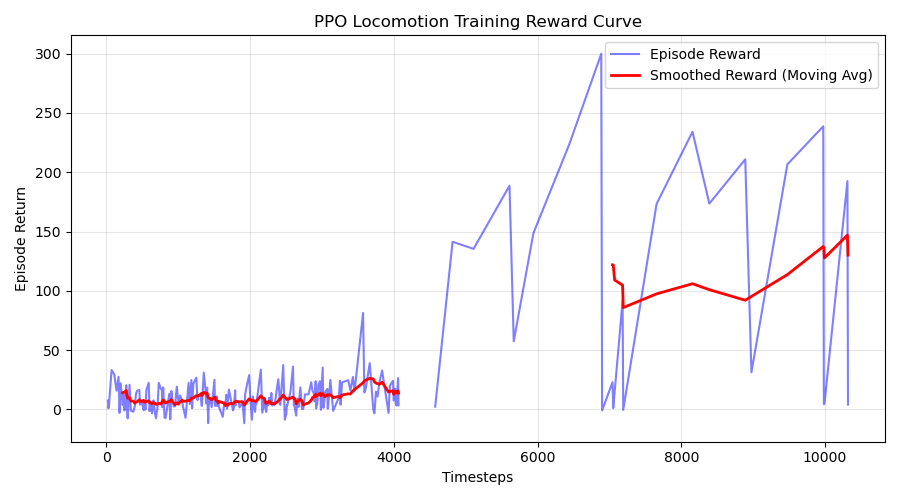
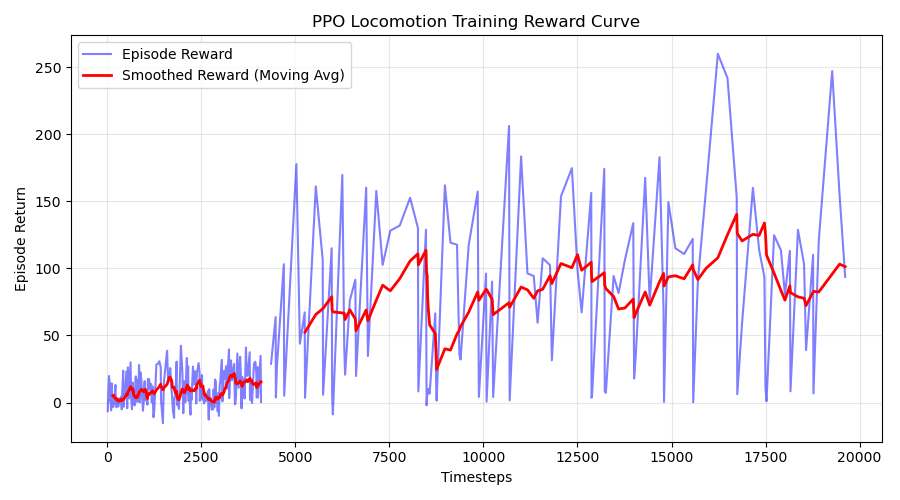
Stage 11: NN controller & population

diff --git a/evolution/nn_controller.py b/evolution/nn_controller.py
@@ -1,0 +1,78 @@
+"""Feedforward Neural Network controller for evolutionary creature locomotion."""
+from __future__ import annotations
+import numpy as np
+
+
+class NNController:
+    """Multi-Layer Perceptron (MLP) policy for creature articulation control.
+
+    Architecture:
+        Input Layer: obs_dim neurons
+        Hidden Layer: hidden_dim neurons (ReLU activation)
+        Output Layer: num_actions neurons (Tanh activation -> [-1.0, 1.0])
+    """
+
+    def __init__(self, obs_dim: int, num_actions: int, hidden_dim: int = 16) -> None:
+        """Initialize controller layer shapes and random weights/biases."""
+        self.obs_dim = obs_dim
+        self.num_actions = num_actions
+        self.hidden_dim = hidden_dim
+
+        # Calculate weight matrix sizes
+        self.w1_size = obs_dim * hidden_dim
+        self.b1_size = hidden_dim
+        self.w2_size = hidden_dim * num_actions
+        self.b2_size = num_actions
+
+        self.total_weights = self.w1_size + self.b1_size + self.w2_size + self.b2_size
+
+        # Initialize with Xavier/Glorot random weights
+        limit1 = np.sqrt(6.0 / (obs_dim + hidden_dim))
+        self.W1 = np.random.uniform(-limit1, limit1, (obs_dim, hidden_dim)).astype(np.float32)
+        self.b1 = np.zeros((hidden_dim,), dtype=np.float32)
+
+        limit2 = np.sqrt(6.0 / (hidden_dim + num_actions))
+        self.W2 = np.random.uniform(-limit2, limit2, (hidden_dim, num_actions)).astype(np.float32)
+        self.b2 = np.zeros((num_actions,), dtype=np.float32)
+
+    def act(self, observation: np.ndarray) -> np.ndarray:
+        """Compute feedforward pass and return continuous action vector in range [-1.0, 1.0]."""
+        obs = np.asarray(observation, dtype=np.float32)
+        if obs.ndim == 1:
+            obs = obs.reshape(1, -1)
+
+        # Hidden layer: ReLU(obs @ W1 + b1)
+        hidden = np.maximum(0.0, obs @ self.W1 + self.b1)
+
+        # Output layer: Tanh(hidden @ W2 + b2)
+        output = np.tanh(hidden @ self.W2 + self.b2)
+        return output.squeeze(axis=0)
+
+    def get_genome(self) -> np.ndarray:
+        """Flatten all weight and bias matrices into a single 1D numpy genome array."""
+        return np.concatenate([
+            self.W1.ravel(),
+            self.b1.ravel(),
+            self.W2.ravel(),
+            self.b2.ravel(),
+        ]).astype(np.float32)
+
+    def set_genome(self, genome: np.ndarray) -> None:
+        """Unflatten 1D genome array into weight and bias matrices."""
+        g = np.asarray(genome, dtype=np.float32)
+        if g.size != self.total_weights:
+            raise ValueError(
+                f"Genome length mismatch: expected {self.total_weights}, got {g.size}"
+            )
+
+        idx = 0
+        self.W1 = g[idx : idx + self.w1_size].reshape(self.obs_dim, self.hidden_dim)
+        idx += self.w1_size
+
+        self.b1 = g[idx : idx + self.b1_size].reshape(self.hidden_dim)
+        idx += self.b1_size
+
+        self.W2 = g[idx : idx + self.w2_size].reshape(self.hidden_dim, self.num_actions)
+        idx += self.w2_size
+
+        self.b2 = g[idx : idx + self.b2_size].reshape(self.num_actions)

diff --git a/evolution/population.py b/evolution/population.py
@@ -1,0 +1,61 @@
+"""Population structure and individual fitness evaluation for Evolutionary Algorithm."""
+from __future__ import annotations
+import numpy as np
+from creatures.morphology import CreatureSpec
+from rl.env import CreatureEnv
+from evolution.nn_controller import NNController
+
+
+class Population:
+    """Manages a population of Neural Network genomes and handles fitness evaluation."""
+
+    def __init__(
+        self,
+        size: int,
+        creature_spec: CreatureSpec | str | None = None,
+        hidden_dim: int = 16,
+    ) -> None:
+        """Initialize population of random individual genomes matching creature morphology."""
+        self.size = size
+        self.hidden_dim = hidden_dim
+
+        # Determine dimensions from sample environment
+        sample_env = CreatureEnv(spec=creature_spec)
+        self.creature_spec = sample_env.creature_spec
+        self.obs_dim = sample_env.observation_space.shape[0]
+        self.num_actions = sample_env.action_space.shape[0]
+        sample_env.close()
+
+        # Dummy controller to get genome length
+        dummy_ctrl = NNController(self.obs_dim, self.num_actions, hidden_dim)
+        self.genome_length = dummy_ctrl.total_weights
+
+        # Initialize random genomes (normal distribution std=0.5)
+        self.genomes = [
+            np.random.randn(self.genome_length).astype(np.float32) * 0.5
+            for _ in range(size)
+        ]
+
+    def create_controller(self, genome: np.ndarray) -> NNController:
+        """Instantiate NNController initialized with given genome parameters."""
+        controller = NNController(self.obs_dim, self.num_actions, self.hidden_dim)
+        controller.set_genome(genome)
+        return controller
+
+    def evaluate(self, genome: np.ndarray, max_steps: int = 500) -> float:
+        """Evaluate an individual genome in a fresh physics environment and return total fitness."""
+        env = CreatureEnv(spec=self.creature_spec, max_episode_steps=max_steps)
+        controller = self.create_controller(genome)
+
+        obs, info = env.reset()
+        total_fitness = 0.0
+        done = False
+
+        while not done:
+            action = controller.act(obs)
+            obs, reward, terminated, truncated, info = env.step(action)
+            total_fitness += reward
+            done = terminated or truncated
+
+        env.close()
+        return float(total_fitness)

diff --git a/tests/test_stage11.py b/tests/test_stage11.py
@@ -1,0 +1,42 @@
+"""Unit tests for Stage 11: NN Controller & Population."""
+import numpy as np
+import pytest
+from evolution.nn_controller import NNController
+from evolution.population import Population
+
+
+def test_nn_controller_forward_pass_and_bounds():
+    """Verify NNController outputs valid action within [-1.0, 1.0] matching action shape."""
+    obs_dim = 11
+    num_actions = 2
+    controller = NNController(obs_dim, num_actions, hidden_dim=16)
+
+    random_obs = np.random.randn(obs_dim).astype(np.float32)
+    action = controller.act(random_obs)
+
+    assert isinstance(action, np.ndarray)
+    assert action.shape == (num_actions,)
+    assert (action >= -1.0).all() and (action <= 1.0).all()
+
+
+def test_genome_roundtrip_serialization():
+    """Verify get_genome -> set_genome round-trip is lossless."""
+    controller = NNController(obs_dim=8, num_actions=3, hidden_dim=12)
+    original_genome = controller.get_genome().copy()
+
+    # Mutate genome
+    new_genome = np.random.randn(len(original_genome)).astype(np.float32)
+    controller.set_genome(new_genome)
+
+    retrieved_genome = controller.get_genome()
+    np.testing.assert_allclose(retrieved_genome, new_genome, rtol=1e-6, atol=1e-6)
+
+
+def test_population_evaluation_fitness_variance():
+    """Verify evaluating different random genomes produces different fitness values."""
+    pop = Population(size=5, hidden_dim=16)
+    fitnesses = [pop.evaluate(genome, max_steps=100) for genome in pop.genomes]
+
+    assert len(fitnesses) == 5
+    assert len(set(fitnesses)) > 1  # Not all identical
+    assert all(isinstance(f, float) for f in fitnesses)

diff --git a/PROGRESS_LOG.md b/PROGRESS_LOG.md
@@ -286,3 +286,26 @@ tests/test_stage10.py::test_train_and_record_ppo_pipeline PASSED       [100%]
 ======================== 1 passed, 2 warnings in 17.65s =======================
 ```
 - Anything that's a known rough edge / would do differently with more time: Episode mean reward grew from 0.3 to 13.0 over 25k timesteps; extending training to 100k timesteps on multi-core CPU will further refine gait speed.
+
+### Stage 11 — NN Controller & Population — 2026-07-22
+
+- What was built: Hand-rolled Multi-Layer Perceptron neural network controller (`NNController` in `evolution/nn_controller.py`) with ReLU hidden activation and Tanh output activation ($\text{Box}[-1, 1]$ actions), 1D genome vector flattening/unflattening serialization (`get_genome`/`set_genome`), `Population` container (`evolution/population.py`), and simulation evaluation runner.
+- Key design decision (and why): Built weight matrix serialization directly into `NNController` so genetic operators (mutation and crossover) operate on flat float32 numpy arrays without autograd or framework overhead.
+- Verification run (paste the actual command + result, not a description):
+```
+pytest tests/test_stage11.py -v
+============================= test session starts =============================
+platform win32 -- Python 3.13.9, pytest-8.4.2, pluggy-1.5.0 -- C:\Anaconda3\python.exe
+cachedir: .pytest_cache
+rootdir: C:\Users\Kashish Gandhi\Desktop\2D_physics_engine
+plugins: asyncio-1.4.0, anyio-4.10.0
+asyncio: mode=Mode.STRICT, debug=False, asyncio_default_fixture_loop_scope=None, asyncio_default_test_loop_scope=function
+collecting ... collected 3 items
+
+tests/test_stage11.py::test_nn_controller_forward_pass_and_bounds PASSED [ 33%]
+tests/test_stage11.py::test_genome_roundtrip_serialization PASSED        [ 66%]
+tests/test_stage11.py::test_population_evaluation_fitness_variance PASSED [100%]
+
+============================== 3 passed in 1.05s ==============================
+```
+- Anything that's a known rough edge / would do differently with more time: Controller currently uses a single 16-unit hidden layer; for larger multi-limb creatures, configurable layer sizes can be added as a constructor argument.